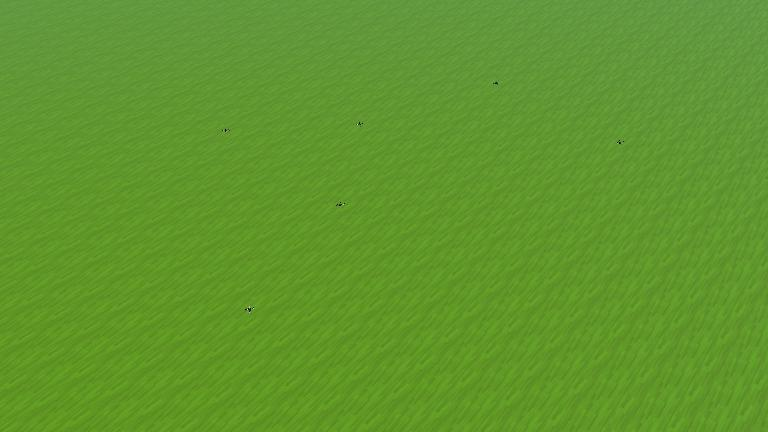
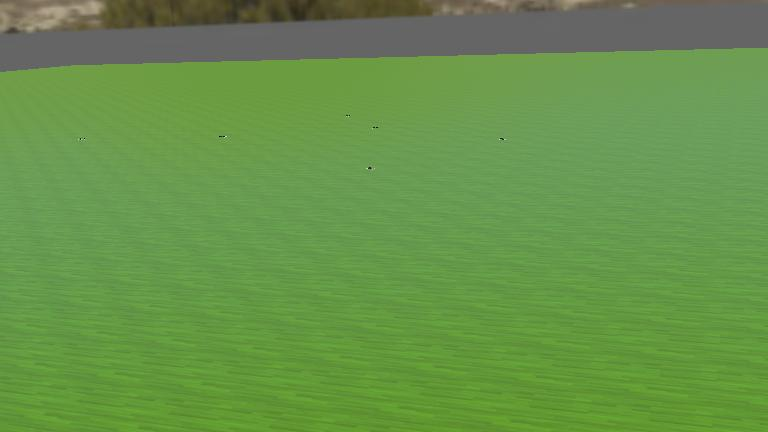
wip:ドローン制御の3D化

diff --git a/controllers/boid_controller/boid_controller.py b/controllers/boid_controller/boid_controller.py
@@ -1,6 +1,6 @@
 # -*- coding: utf-8 -*-
 """
-Boid Flocking Controller for Crazyflie Drones (3D Version - Stabilized)
+Boid Flocking Controller for Crazyflie Drones (Fully 3D Boids Control)
 """
 
 import sys
@@ -12,18 +12,17 @@ from boid_algorithm import BoidAlgorithm
 
 # --- 設定 ---
 TIME_STEP = 16
-INITIAL_HOVER_ALTITUDE = 1.0  # 初期離陸高度
-MINIMUM_ALTITUDE = 0.8  # 安全のための最低高度
-MAXIMUM_ALTITUDE = 2.0  # 探索範囲の最高高度
+INITIAL_HOVER_ALTITUDE = 1.0
+MINIMUM_ALTITUDE = 0.5  # 安全のための最低高度
 
 
 class BoidFlockingController:
     def __init__(self):
         self.robot = Robot()
         self.drone_id = int(sys.argv[1]) if len(sys.argv) > 1 else 1
-        print(f"=== Drone {self.drone_id} Starting 3D Boid Flocking (Stabilized) ===")
+        print(f"=== Drone {self.drone_id} Starting Fully 3D Boids Control ===")
 
-        # モーターとセンサーの初期化
+        # 初期化処理
         self.motors = self._init_motors()
         self.gps = self.robot.getDevice("gps")
         self.gps.enable(TIME_STEP)
@@ -31,14 +30,11 @@ class BoidFlockingController:
         self.imu.enable(TIME_STEP)
         self.gyro = self.robot.getDevice("gyro")
         self.gyro.enable(TIME_STEP)
-
-        # 通信の初期化
         self.emitter = self.robot.getDevice("emitter")
         self.receiver = self.robot.getDevice("receiver")
         if self.receiver:
             self.receiver.enable(TIME_STEP)
 
-        # 制御システムの初期化
         self.pid_controller = pid_velocity_fixed_height_controller()
         self.boid_algorithm = BoidAlgorithm()
 
@@ -47,25 +43,20 @@ class BoidFlockingController:
         self.past_position = np.zeros(3)
         self.current_velocity = np.zeros(3)
 
-        # 通信変数
+        # ★★★ 3次元ベクトルとして平滑化変数を初期化 ★★★
+        self.smoothed_desired_velocity = np.zeros(3)
+
         self.neighbors = {}
         self.last_send_time = 0.0
-
-        # 飛行状態
         self.flight_mode = "takeoff"
         self.desired_altitude = INITIAL_HOVER_ALTITUDE
-
-        # リーダー機用の設定
         self.is_leader = self.drone_id == 1
-        self.wander_angle = 0.0
-        self.leader_altitude_time = 0.0
 
     def _init_motors(self):
         motors = []
         for name in ["m1_motor", "m2_motor", "m3_motor", "m4_motor"]:
             motor = self.robot.getDevice(name)
             motor.setPosition(float("inf"))
-            # m1, m3は逆回転、m2, m4は正回転
             velocity_sign = 1 if "m2" in name or "m4" in name else -1
             motor.setVelocity(velocity_sign)
             motors.append(motor)
@@ -73,7 +64,6 @@ class BoidFlockingController:
 
     def run(self):
         """メイン制御ループ"""
-        # センサーが安定するまで待機
         while self.robot.step(TIME_STEP) != -1 and self.robot.getTime() < 0.5:
             pass
         self.past_position = self.gps.getValues()
@@ -84,69 +74,65 @@ class BoidFlockingController:
             if dt <= 0:
                 continue
 
-            # --- 状態更新フェーズ ---
             current_pos = np.array(self.gps.getValues())
             self._update_velocity(current_pos, dt)
             self._update_flight_mode(current_pos[2])
 
-            # --- 通信フェーズ ---
             self._send_state(current_pos)
             self._receive_state()
 
-            # --- 目標値計算フェーズ ---
             desired_vx, desired_vy = 0, 0
 
-            if self.flight_mode == "flocking":
-                if self.is_leader:
-                    # リーダーはXY方向の探索と、Z方向の滑らかな高度目標を生成
-                    desired_vx, desired_vy = self._get_leader_xy_velocity()
-                    self.desired_altitude = self._get_leader_target_altitude()
-                else:
-                    # フォロワーはBoidsに従う
+            if self.flight_mode == "flocking" and not self.is_leader:
+                all_neighbors = list(self.neighbors.values())
+                if all_neighbors:
+                    # Boidsアルゴリズムで3次元の目標速度ベクトルを計算
                     boid_vel = self.boid_algorithm.calculate_boid_velocity(
-                        current_pos, self.current_velocity, list(self.neighbors.values()), self.is_leader
+                        current_pos, self.current_velocity, all_neighbors, self.is_leader
                     )
-                    desired_vx, desired_vy = boid_vel[0], boid_vel[1]
 
-                    # ★重要: 垂直速度(vz)を目標高度への穏やかな補正として使用する
-                    altitude_correction = boid_vel[2] * dt * 0.5  # 補正の影響を緩やかにする
-                    self.desired_altitude += np.clip(altitude_correction, -0.05, 0.05)
+                    # ★★★ 3次元ベクトル全体を平滑化 ★★★
+                    alpha = 0.2
+                    self.smoothed_desired_velocity = alpha * boid_vel + (1 - alpha) * self.smoothed_desired_velocity
 
-            # 安全のため、目標高度を範囲内に収める
-            self.desired_altitude = np.clip(self.desired_altitude, MINIMUM_ALTITUDE, MAXIMUM_ALTITUDE)
+                    # 平滑化された速度のXY成分を目標値とする
+                    desired_vx, desired_vy = self.smoothed_desired_velocity[0], self.smoothed_desired_velocity[1]
 
-            # --- 制御フェーズ ---
+                    # ★★★ 平滑化された速度のZ成分で目標高度を更新 ★★★
+                    # これにより、Boidsの力が高度にも反映される
+                    self.desired_altitude += self.smoothed_desired_velocity[2] * dt
+
+            # 安全のため、目標高度は最低高度を下回らないようにする
+            self.desired_altitude = max(MINIMUM_ALTITUDE, self.desired_altitude)
+
+            # PID制御
             roll, pitch, _ = self.imu.getRollPitchYaw()
             yaw_rate = self.gyro.getValues()[2]
-
-            # PIDコントローラーでモーター出力を計算
             motor_power = self.pid_controller.pid(
                 dt,
-                np.clip(desired_vx, -1.0, 1.0),  # 安全対策
-                np.clip(desired_vy, -1.0, 1.0),  # 安全対策
-                0,  # Yaw rate
+                desired_vx,
+                desired_vy,
+                0,
                 self.desired_altitude,
                 roll,
                 pitch,
                 yaw_rate,
-                current_pos[2],  # actual altitude
-                self.current_velocity[0],  # actual_vx
-                self.current_velocity[1],  # actual_vy
+                current_pos[2],
+                self.current_velocity[0],
+                self.current_velocity[1],
             )
 
-            # モーターへ指令
-            # m1,m3は-、m2,m4は+の出力
+            # モーター出力
             self.motors[0].setVelocity(-motor_power[0])
             self.motors[1].setVelocity(motor_power[1])
             self.motors[2].setVelocity(-motor_power[2])
             self.motors[3].setVelocity(motor_power[3])
 
-            # 状態更新
             self.past_time = self.robot.getTime()
             self.past_position = current_pos
 
+    # (以降の補助関数は変更なし)
     def _update_velocity(self, current_pos, dt):
-        # 3D速度を計算
         self.current_velocity = (current_pos - self.past_position) / dt
 
     def _update_flight_mode(self, altitude):
@@ -167,8 +153,11 @@ class BoidFlockingController:
             "vz": self.current_velocity[2],
         }
         if self.emitter:
-            self.emitter.send(json.dumps(message))
-            self.last_send_time = self.robot.getTime()
+            try:
+                self.emitter.send(json.dumps(message))
+                self.last_send_time = self.robot.getTime()
+            except Exception:
+                pass
 
     def _receive_state(self):
         if not self.receiver:
@@ -182,27 +171,8 @@ class BoidFlockingController:
             except (json.JSONDecodeError, KeyError):
                 pass
             self.receiver.nextPacket()
-        # タイムアウトした隣人を削除
         now = self.robot.getTime()
         self.neighbors = {k: v for k, v in self.neighbors.items() if now - v.get("received_time", 0) < 1.0}
-
-    def _get_leader_xy_velocity(self):
-        """リーダーのXY平面上の探索速度を計算"""
-        self.wander_angle += np.random.uniform(-0.4, 0.4)  # 探索方向をランダムに変更
-        speed = 0.3
-        vx = np.cos(self.wander_angle) * speed
-        vy = np.sin(self.wander_angle) * speed
-        return vx, vy
-
-    def _get_leader_target_altitude(self):
-        """リーダーの目標高度をサイン波で滑らかに計算"""
-        self.leader_altitude_time += TIME_STEP / 1000.0
-        amplitude = (MAXIMUM_ALTITUDE - MINIMUM_ALTITUDE) / 2
-        mid_point = (MAXIMUM_ALTITUDE + MINIMUM_ALTITUDE) / 2
-        # 周期の異なるサイン波を合成して、より複雑な動きにする
-        alt1 = amplitude * np.sin(self.leader_altitude_time * 0.2)
-        alt2 = amplitude * np.cos(self.leader_altitude_time * 0.35)
-        return mid_point + (alt1 + alt2) / 2
 
 
 if __name__ == "__main__":
